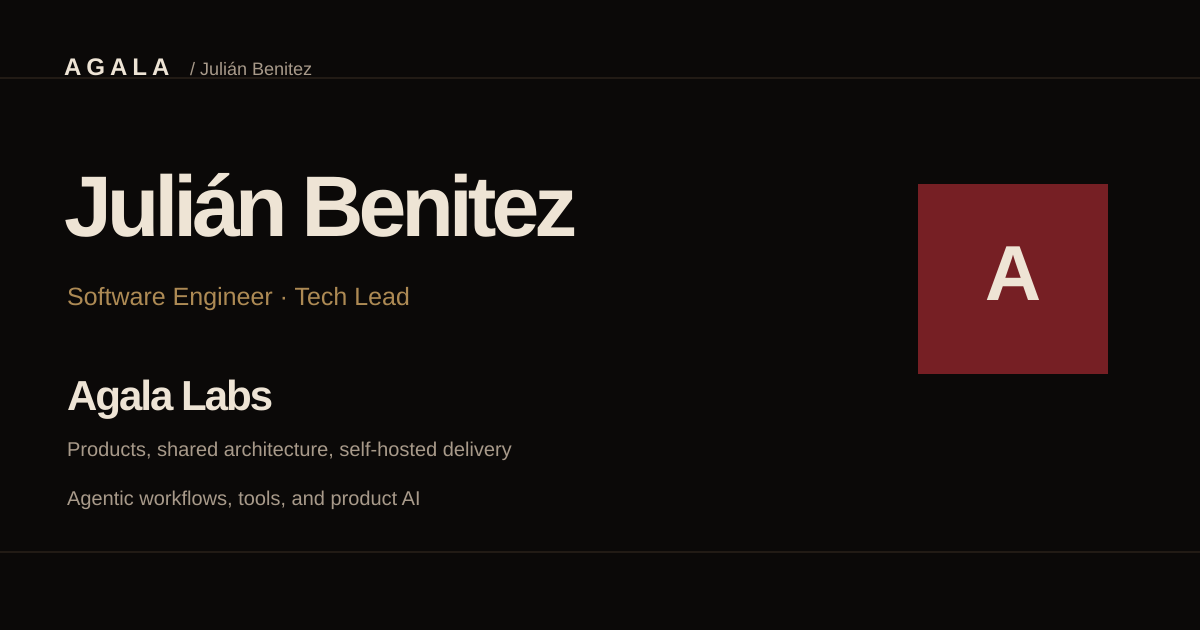
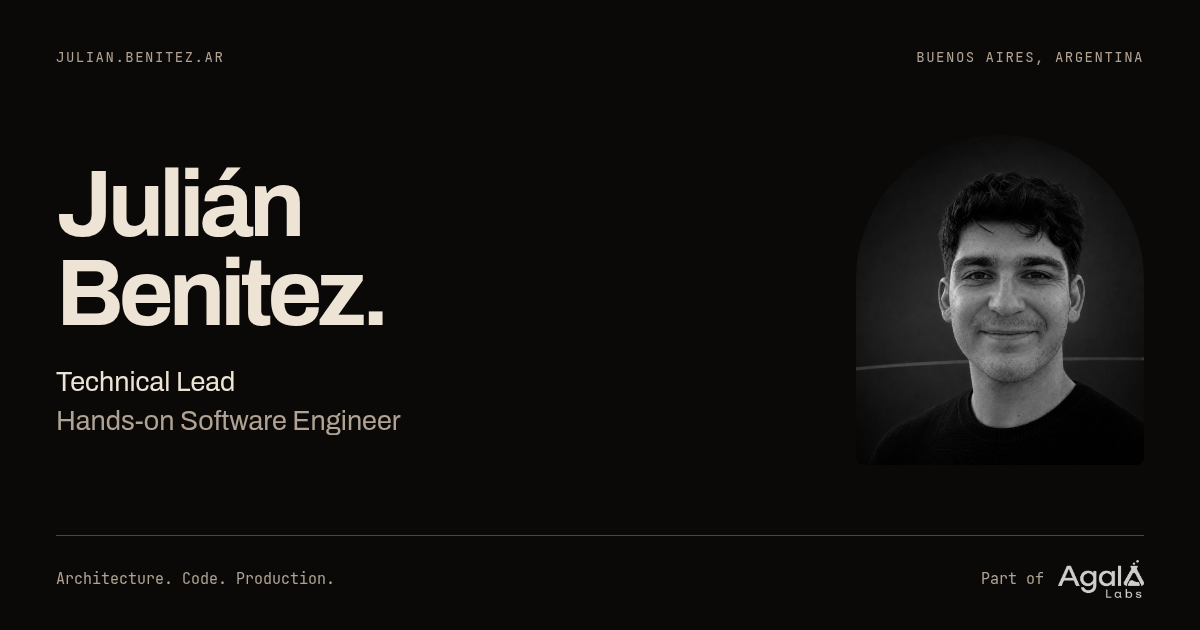
fix(portfolio): refresh social preview and identity metadata

diff --git a/scripts/social-card.html b/scripts/social-card.html
@@ -1,0 +1,34 @@
+<!doctype html>
+<html lang="en">
+<meta charset="utf-8">
+<title>Portfolio social preview</title>
+<style>
+  @font-face { font-family: Archivo; src: url('{{font}}'); font-weight: 100 900; }
+  @font-face { font-family: Mono; src: url('{{mono}}'); font-weight: 100 900; }
+  * { box-sizing: border-box; }
+  html, body { margin: 0; width: 1200px; height: 630px; overflow: hidden; }
+  body { background: #0b0908; color: #eee4d5; font-family: Archivo, sans-serif; }
+  main { height: 100%; padding: 48px 56px 32px; display: flex; flex-direction: column; }
+  header, footer { display: flex; justify-content: space-between; align-items: center; }
+  header { color: #b1a394; font: 14px Mono, monospace; letter-spacing: 1.5px; text-transform: uppercase; }
+  .identity { flex: 1; display: grid; grid-template-columns: 1fr 288px; gap: 52px; align-items: center; }
+  h1 { margin: 0 0 25px; font-size: 94px; font-weight: 700; letter-spacing: -5px; line-height: .95; }
+  .role { margin: 0; color: #eee4d5; font-size: 27px; line-height: 1.45; }
+  .role span { display: block; color: #b1a394; }
+  .portrait { width: 288px; height: 330px; object-fit: cover; border-radius: 144px 144px 8px 8px; filter: grayscale(1); }
+  footer { border-top: 1px solid #4c463c; padding-top: 24px; color: #b1a394; font: 15px Mono, monospace; }
+  .brand { display: flex; align-items: center; gap: 14px; }
+  .brand img { width: 86px; height: auto; filter: brightness(0) invert(1); opacity: .8; }
+</style>
+<main>
+  <header><span>{{website}}</span><span>Buenos Aires, Argentina</span></header>
+  <section class="identity">
+    <div>
+      <h1>Julián<br>Benitez.</h1>
+      <p class="role">Technical Lead<span>Hands-on Software Engineer</span></p>
+    </div>
+    <img class="portrait" src="{{portrait}}" alt="Julián Benitez">
+  </section>
+  <footer><span>Architecture. Code. Production.</span><span class="brand">Part of <img src="{{logo}}" alt="Agala Labs"></span></footer>
+</main>
+</html>

diff --git a/scripts/generate-social.ts b/scripts/generate-social.ts
@@ -1,0 +1,44 @@
+import { execFile } from 'node:child_process'
+import { mkdtemp, readFile, rm, writeFile } from 'node:fs/promises'
+import { tmpdir } from 'node:os'
+import { join, resolve } from 'node:path'
+import { pathToFileURL } from 'node:url'
+import { promisify } from 'node:util'
+import { profile } from '../data/profile.ts'
+
+const run = promisify(execFile)
+
+async function main() {
+  const directory = await mkdtemp(join(tmpdir(), 'portfolio-social-'))
+  try {
+    const assets = {
+      font: ['public/portfolio/fonts/archivo-latin.woff2', 'font/woff2'],
+      mono: ['public/portfolio/fonts/jetbrains-mono-latin.woff2', 'font/woff2'],
+      portrait: ['public/portfolio/images/julian-benitez.png', 'image/png'],
+      logo: ['public/portfolio/images/agala-logo.png', 'image/png'],
+    } satisfies Record<string, [string, string]>
+    let html = await readFile('scripts/social-card.html', 'utf8')
+    for (const [key, [path, mime]] of Object.entries(assets)) {
+      const data = await readFile(path)
+      html = html.replaceAll(`{{${key}}}`, `data:${mime};base64,${data.toString('base64')}`)
+    }
+    html = html.replaceAll('{{website}}', profile.website)
+    const source = join(directory, 'social-card.html')
+    await writeFile(source, html)
+    const output = resolve('public/og-image.png')
+    await run(process.env.CHROME_PATH || 'google-chrome', [
+      '--headless=new', '--no-sandbox', '--disable-gpu', '--hide-scrollbars',
+      '--force-device-scale-factor=1', '--window-size=1200,630',
+      '--virtual-time-budget=2000', `--user-data-dir=${join(directory, 'chrome')}`,
+      `--screenshot=${output}`, pathToFileURL(source).href,
+    ], { timeout: 30_000 })
+    console.log(`Social preview written to ${output}`)
+  } finally {
+    await rm(directory, { recursive: true, force: true })
+  }
+}
+
+main().catch((error) => {
+  console.error(error)
+  process.exitCode = 1
+})

diff --git a/utils/portfolio.ts b/utils/portfolio.ts
@@ -25,7 +25,6 @@ export function mountPortfolio(options: MusicObserver = {}) {
   const bootCommand = requireElement('[data-boot-command]')
   const bootStatus = requireElement('[data-boot-status]')
   const command = 'whoami'
-  const mistypedCommand = 'whoaim'
   let bootTimer = 0
   let bootComplete = false
 
@@ -77,36 +76,8 @@ export function mountPortfolio(options: MusicObserver = {}) {
       typeNextCharacter()
     }
 
-    const deleteCharacters = (
-      count: number,
-      delay: number,
-      onComplete: () => void,
-    ) => {
-      let remaining = count
-      const deleteNextCharacter = () => {
-        if (remaining === 0) {
-          onComplete()
-          return
-        }
-
-        bootCommand.textContent = (bootCommand.textContent ?? '').slice(0, -1)
-        remaining -= 1
-        schedule(deleteNextCharacter, delay)
-      }
-      deleteNextCharacter()
-    }
-
     schedule(() => {
-      typeCharacters(mistypedCommand, 72, () => {
-        bootStatus.textContent = 'Correcting command'
-        schedule(() => {
-          deleteCharacters(2, 95, () => {
-            schedule(() => {
-              typeCharacters('mi', 90, () => schedule(finishBoot, 240))
-            }, 120)
-          })
-        }, 420)
-      })
+      typeCharacters(command, 90, () => schedule(finishBoot, 240))
     }, 280)
     listen(window, 'hashchange', finishBoot)
     listen(document, 'keydown', skipBootWithKey)

diff --git a/app.vue b/app.vue
@@ -1,5 +1,6 @@
 <script setup lang="ts">
 import resumeStyles from '~/assets/css/main.css?inline'
+import { social } from '~/data/social'
 
 const route = useRoute()
 const config = useRuntimeConfig()
@@ -7,17 +8,22 @@ const canonicalUrl = computed(() => `${config.public.siteUrl}${route.path}`)
 
 useHead({
   style: computed(() => route.path === '/resume' ? [{ key: 'resume-design', innerHTML: resumeStyles }] : []),
-  titleTemplate: (title) => title ? `${title} — Agala / Julián Benitez` : 'Agala / Julián Benitez — Software Engineer / Tech Lead',
+  titleTemplate: (title) => title ? `${title} — Julián Benitez` : social.title,
   link: [{ rel: 'canonical', href: canonicalUrl }],
 })
 
 useSeoMeta({
-  ogSiteName: 'Agala / Julián Benitez',
+  ogSiteName: 'Julián Benitez',
   ogType: 'website',
-  ogImage: () => `${config.public.siteUrl}/og-image.png`,
+  ogImage: () => `${config.public.siteUrl}${social.image}`,
+  ogImageWidth: 1200,
+  ogImageHeight: 630,
+  ogImageType: 'image/png',
+  ogImageAlt: social.imageAlt,
   ogUrl: canonicalUrl,
   twitterCard: 'summary_large_image',
-  twitterImage: () => `${config.public.siteUrl}/og-image.png`,
+  twitterImage: () => `${config.public.siteUrl}${social.image}`,
+  twitterImageAlt: social.imageAlt,
 })
 </script>
 

diff --git a/pages/index.vue b/pages/index.vue
@@ -1,11 +1,14 @@
 <script setup lang="ts">
 import { profile as person } from '~/data/profile'
+import { social } from '~/data/social'
 
 useSeoMeta({
-  title: 'Julián Benitez | Technical Lead & Software Engineer',
-  description: person.summary,
-  ogTitle: 'Agala / Julián Benitez — Software Engineer & Tech Lead',
-  ogDescription: person.summary,
+  title: social.title,
+  description: social.description,
+  ogTitle: social.title,
+  ogDescription: social.description,
+  twitterTitle: social.title,
+  twitterDescription: social.description,
 })
 
 useHead({

diff --git a/data/social.ts b/data/social.ts
@@ -1,0 +1,6 @@
+export const social = {
+  title: 'Julián Benitez — Technical Lead & Hands-on Software Engineer',
+  description: 'Architecture, code and production. Hands-on technical leadership across frontend, backend and infrastructure, working with teams in Argentina, the US and Europe.',
+  image: '/og-image.png?v=portfolio-2026-09',
+  imageAlt: 'Julián Benitez — Technical Lead and Hands-on Software Engineer. Personal portfolio, part of Agala Labs.',
+}

diff --git a/pages/resume.vue b/pages/resume.vue
@@ -10,6 +10,10 @@ useHead({
 useSeoMeta({
   title: 'Resume',
   description: `Resume for ${person.name}, ${person.title} in ${person.location}.`,
+  ogTitle: `Resume — ${person.name}`,
+  ogDescription: details.summary,
+  twitterTitle: `Resume — ${person.name}`,
+  twitterDescription: details.summary,
   robots: 'index, follow',
 })
 

diff --git a/README.md b/README.md
@@ -4,7 +4,7 @@ A Nuxt portfolio for Julián “Agala” Benitez. The homepage reproduces the Po
 
 ## Experience
 
-- **Original design:** Archivo and JetBrains Mono, the original portrait, responsive composition, and the typing/correction introduction.
+- **Original design:** Archivo and JetBrains Mono, the original portrait, responsive composition, and the introduction typing `whoami`.
 - **Agala Labs:** the original architecture chapter covering applications, shared services, data, infrastructure, and delivery.
 - **SoundCloud:** Audio Junkies — “Aspects Of Rhythm” (3:02), Sako Isoyan — “Wow” (2:55), Breezy S — “UFO On A Limousine” (3:28), Alpyren — “Cold Case (ODTF002)” (1:59), Known Artist — “I Need (Rosa Red Remix)” (1:27), and Voodoos and Taboos — “Witch House [PHONICAM001]” (3:27). Playback begins on interaction; switching tracks reapplies the selected offset, while pause/resume retains the current position.
 - **Accessible by default:** semantic sections, visible headings, keyboard navigation, responsive layouts, and reduced-motion handling.
@@ -38,8 +38,11 @@ The Breezy S track uses the BELTERS 4U release premiere on SoundCloud. During ve
 - `projects.ts` — public open-source projects and supporting narratives
 - `career.ts` — the career record used by the resume
 - `resume.ts` — experience, education, skills, and languages
+- `social.ts` — shared social metadata and versioned preview image URL
 
 The formal resume is the only secondary route.
+
+The share preview uses the current portrait and brand assets. After editing `scripts/social-card.html`, run `npm run social:image` with Chrome installed (`CHROME_PATH` can override its location), then update the image version in `data/social.ts`. Commit the generated `public/og-image.png` before deployment. Existing messages may retain a cached preview until the sharing service fetches the metadata again.
 
 ## Verification
 

diff --git a/CLAUDE.md b/CLAUDE.md
@@ -12,7 +12,7 @@ copy, Archivo typography, portrait and responsive rules. There are no
 - Homepage: `PortfolioDesign.vue`, `assets/css/portfolio.css`, and
   `utils/portfolio.ts`. Original assets live in `public/portfolio/`. Existing
   standalone section components are not used by this homepage.
-- Motion: the hero types and corrects `whoami` once. Reduced-motion visitors
+- Motion: the hero types `whoami` once. Reduced-motion visitors
   receive the content immediately.
 - Audio: SoundCloud playlist with offsets 3:02, 2:55, 3:28, 1:59, 1:27, and
   3:27. Apply offsets
